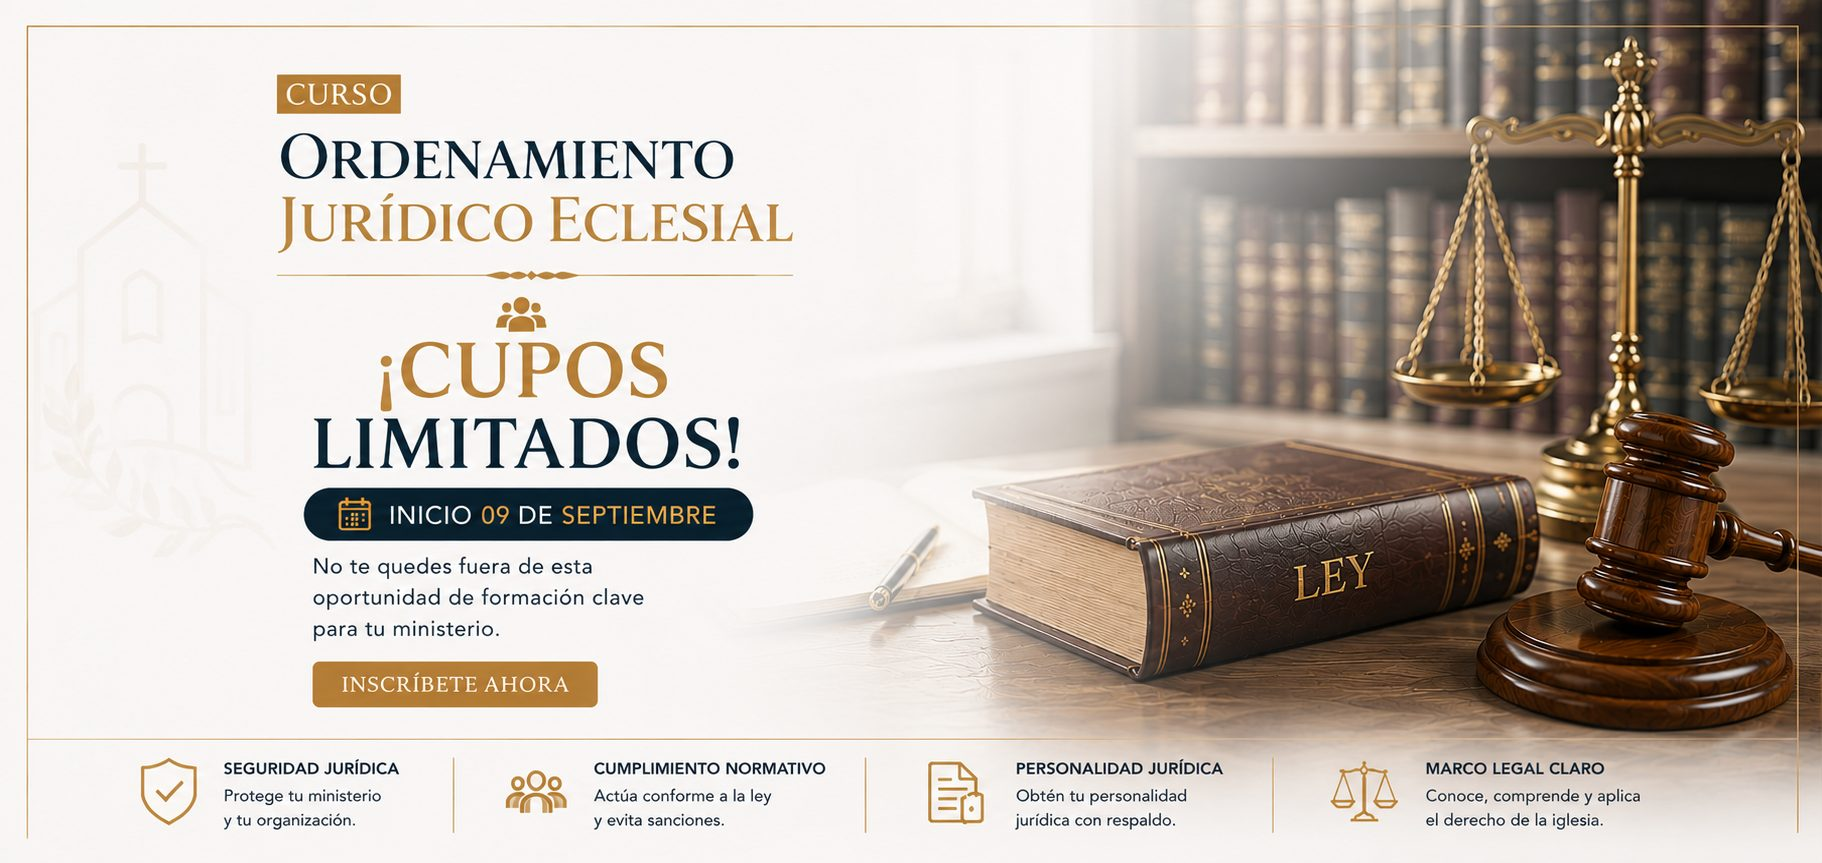
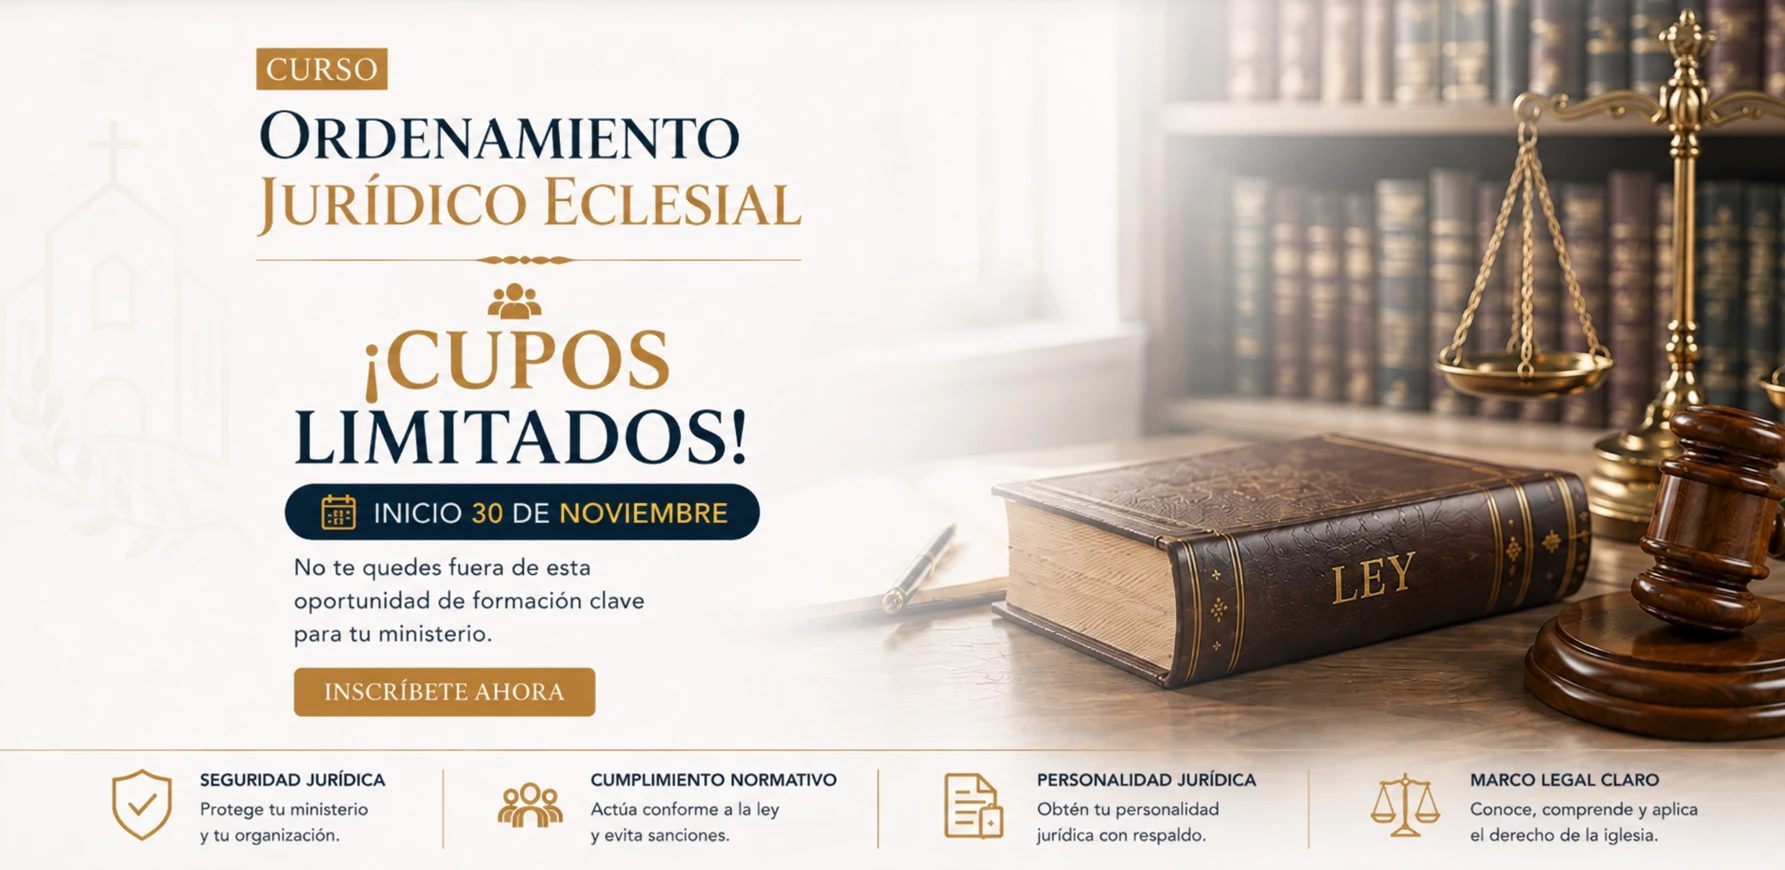
Reemplaza banner2 con nueva imagen y actualiza fecha de inicio al 30 de noviembre

diff --git a/index.html b/index.html
@@ -4,7 +4,7 @@
 <meta charset="UTF-8">
 <meta name="viewport" content="width=device-width, initial-scale=1.0">
 <title>Ordenamiento Jurídico Eclesial — Taller en vivo | Lex Ekklesía</title>
-<meta name="description" content="Taller en vivo: Ordenamiento Jurídico Eclesial. Marco legal, libertad de culto y personalidad jurídica para iglesias y entidades religiosas en Chile. Inicio 9 de septiembre de 2026.">
+<meta name="description" content="Taller en vivo: Ordenamiento Jurídico Eclesial. Marco legal, libertad de culto y personalidad jurídica para iglesias y entidades religiosas en Chile. Inicio 30 de noviembre de 2026.">
 <meta name="keywords" content="ordenamiento jurídico eclesial, ley 19.638, entidades religiosas Chile, libertad de culto, personalidad jurídica iglesias, decreto 142, ley 20.299, Lex Ekklesía, taller derecho eclesiástico">
 <meta name="robots" content="index, follow">
 <meta name="author" content="Lex Ekklesía">
@@ -15,7 +15,7 @@
 <meta property="og:locale" content="es_CL">
 <meta property="og:site_name" content="Lex Ekklesía">
 <meta property="og:title" content="Ordenamiento Jurídico Eclesial — Taller en vivo | Lex Ekklesía">
-<meta property="og:description" content="Marco legal, libertad de culto y personalidad jurídica para iglesias y entidades religiosas en Chile. Inicio 9 de septiembre de 2026 · 100% en vivo por Zoom.">
+<meta property="og:description" content="Marco legal, libertad de culto y personalidad jurídica para iglesias y entidades religiosas en Chile. Inicio 30 de noviembre de 2026 · 100% en vivo por Zoom.">
 <meta property="og:image" content="https://lexekklesia.cl/og-image.jpg">
 <meta property="og:image:width" content="1200">
 <meta property="og:image:height" content="630">
@@ -52,7 +52,7 @@
   "hasCourseInstance": {
     "@type": "CourseInstance",
     "courseMode": "online",
-    "startDate": "2026-09-09",
+    "startDate": "2026-11-30",
     "courseWorkload": "PT8H",
     "location": {
       "@type": "VirtualLocation",
@@ -174,7 +174,7 @@
             <img class="hero-banner-img" src="/hero-banner.jpg" alt="Curso Ordenamiento Jurídico Eclesial — Formación para comprender y aplicar el marco legal que sostiene la vida y misión de la Iglesia">
           </div>
           <div class="hero-slide">
-            <img class="hero-banner-img" src="/hero-banner-2.jpg" alt="Curso Ordenamiento Jurídico Eclesial — Cupos limitados, inicio 9 de septiembre de 2026">
+            <img class="hero-banner-img" src="/hero-banner-2.jpg" alt="Curso Ordenamiento Jurídico Eclesial — Cupos limitados, inicio 30 de noviembre de 2026">
             <a class="hero-slide-cta" href="https://wa.me/56989509917?text=Hola%2C%20quiero%20inscribirme%20al%20taller%20Ordenamiento%20Jur%C3%ADdico%20Eclesial" target="_blank" rel="noopener noreferrer" aria-label="Inscríbete ahora por WhatsApp"></a>
           </div>
         </div>
@@ -186,7 +186,7 @@
       <a href="#temario" class="btn btn-outline-navy">Ver temario</a>
     </div>
     <div class="hero-stats">
-      <div class="hero-stat"><div class="val">09 sep</div><div class="lbl">Inicio 2026</div></div>
+      <div class="hero-stat"><div class="val">30 nov</div><div class="lbl">Inicio 2026</div></div>
       <div class="hero-stat"><div class="val">8</div><div class="lbl">Clases en vivo</div></div>
       <div class="hero-stat"><div class="val">2</div><div class="lbl">Módulos</div></div>
       <div class="hero-stat"><div class="val">Zoom</div><div class="lbl">100% sincrónico</div></div>
@@ -274,7 +274,7 @@
               <span class="stag">03 · Modalidad</span>
               <h3>Cómo se dicta</h3>
               <ul class="slide-list">
-                <li><svg width="17" height="17" viewBox="0 0 24 24" fill="none" stroke="#B08D57" stroke-width="2.3" stroke-linecap="round" stroke-linejoin="round"><rect x="3" y="4.5" width="18" height="16" rx="2"/><path d="M3 9.5h18M8 3v3M16 3v3"/></svg>Inicio: 9 de septiembre de 2026</li>
+                <li><svg width="17" height="17" viewBox="0 0 24 24" fill="none" stroke="#B08D57" stroke-width="2.3" stroke-linecap="round" stroke-linejoin="round"><rect x="3" y="4.5" width="18" height="16" rx="2"/><path d="M3 9.5h18M8 3v3M16 3v3"/></svg>Inicio: 30 de noviembre de 2026</li>
                 <li><svg width="17" height="17" viewBox="0 0 24 24" fill="none" stroke="#B08D57" stroke-width="2.3" stroke-linecap="round" stroke-linejoin="round"><circle cx="12" cy="12" r="8.5"/><path d="M12 7.5V12l3 2"/></svg>Miércoles de 21:00 a 22:00 hrs</li>
                 <li><svg width="17" height="17" viewBox="0 0 24 24" fill="none" stroke="#B08D57" stroke-width="2.3" stroke-linecap="round" stroke-linejoin="round"><rect x="2.5" y="5" width="19" height="12.5" rx="2"/><path d="M8 21h8M12 17.5V21"/></svg>Sincrónica, en vivo por Zoom</li>
                 <li><svg width="17" height="17" viewBox="0 0 24 24" fill="none" stroke="#B08D57" stroke-width="2.3" stroke-linecap="round" stroke-linejoin="round"><path d="M4 5.5c2.5-1 5.5-1 8 0v13c-2.5-1-5.5-1-8 0v-13zM20 5.5c-2.5-1-5.5-1-8 0v13c2.5-1 5.5-1 8 0v-13z"/></svg>2 módulos · 8 clases (4 al mes)</li>
@@ -369,7 +369,7 @@
     <div class="details-grid reveal">
       <div class="detail-cell">
         <div class="icon-badge"><svg width="20" height="20" viewBox="0 0 24 24" fill="none" stroke="#B08D57" stroke-width="2.2" stroke-linecap="round" stroke-linejoin="round"><rect x="3" y="4.5" width="18" height="16" rx="2"/><path d="M3 9.5h18M8 3v3M16 3v3"/></svg></div>
-        <div class="dlabel">Inicio</div><div class="dvalue">9 de septiembre 2026</div>
+        <div class="dlabel">Inicio</div><div class="dvalue">30 de noviembre 2026</div>
       </div>
       <div class="detail-cell">
         <div class="icon-badge"><svg width="20" height="20" viewBox="0 0 24 24" fill="none" stroke="#B08D57" stroke-width="2.2" stroke-linecap="round" stroke-linejoin="round"><circle cx="12" cy="12" r="8.5"/><path d="M12 7.5V12l3 2"/></svg></div>
@@ -479,7 +479,7 @@
   <div class="container final-cta-inner reveal">
     <div class="eyebrow eyebrow-dark"><span class="dot dot-gold-light"></span>Cupos limitados</div>
     <h2 class="mt-22">Deja tu iglesia u organización en regla, sin riesgos legales</h2>
-    <p>Comienza el 9 de septiembre de 2026. Escríbenos y te reservamos tu cupo en el módulo o en el taller completo.</p>
+    <p>Comienza el 30 de noviembre de 2026. Escríbenos y te reservamos tu cupo en el módulo o en el taller completo.</p>
     <div class="final-ctas">
       <a href="https://wa.me/56989509917?text=Hola%2C%20quiero%20inscribirme%20al%20taller%20Ordenamiento%20Jur%C3%ADdico%20Eclesial" target="_blank" rel="noopener noreferrer" class="btn btn-gold">WhatsApp +56 9 8950 9917</a>
       <a href="mailto:lexekklesia@gmail.com" class="btn btn-outline">lexekklesia@gmail.com</a>

diff --git a/styles.css b/styles.css
@@ -153,7 +153,7 @@
   .hero-slide{ flex:0 0 100%; position:relative; }
   .hero-banner-img{ width:100%; height:auto; display:block; pointer-events:none; }
   .hero-slide-cta{
-    position:absolute; left:16.2%; top:76.2%; width:17%; height:5.7%;
+    position:absolute; left:16.3%; top:76.1%; width:16.9%; height:5.5%;
     border-radius:8px;
   }
   .hero-carousel-dots{ display:flex; gap:9px; justify-content:center; margin-top:16px; }
